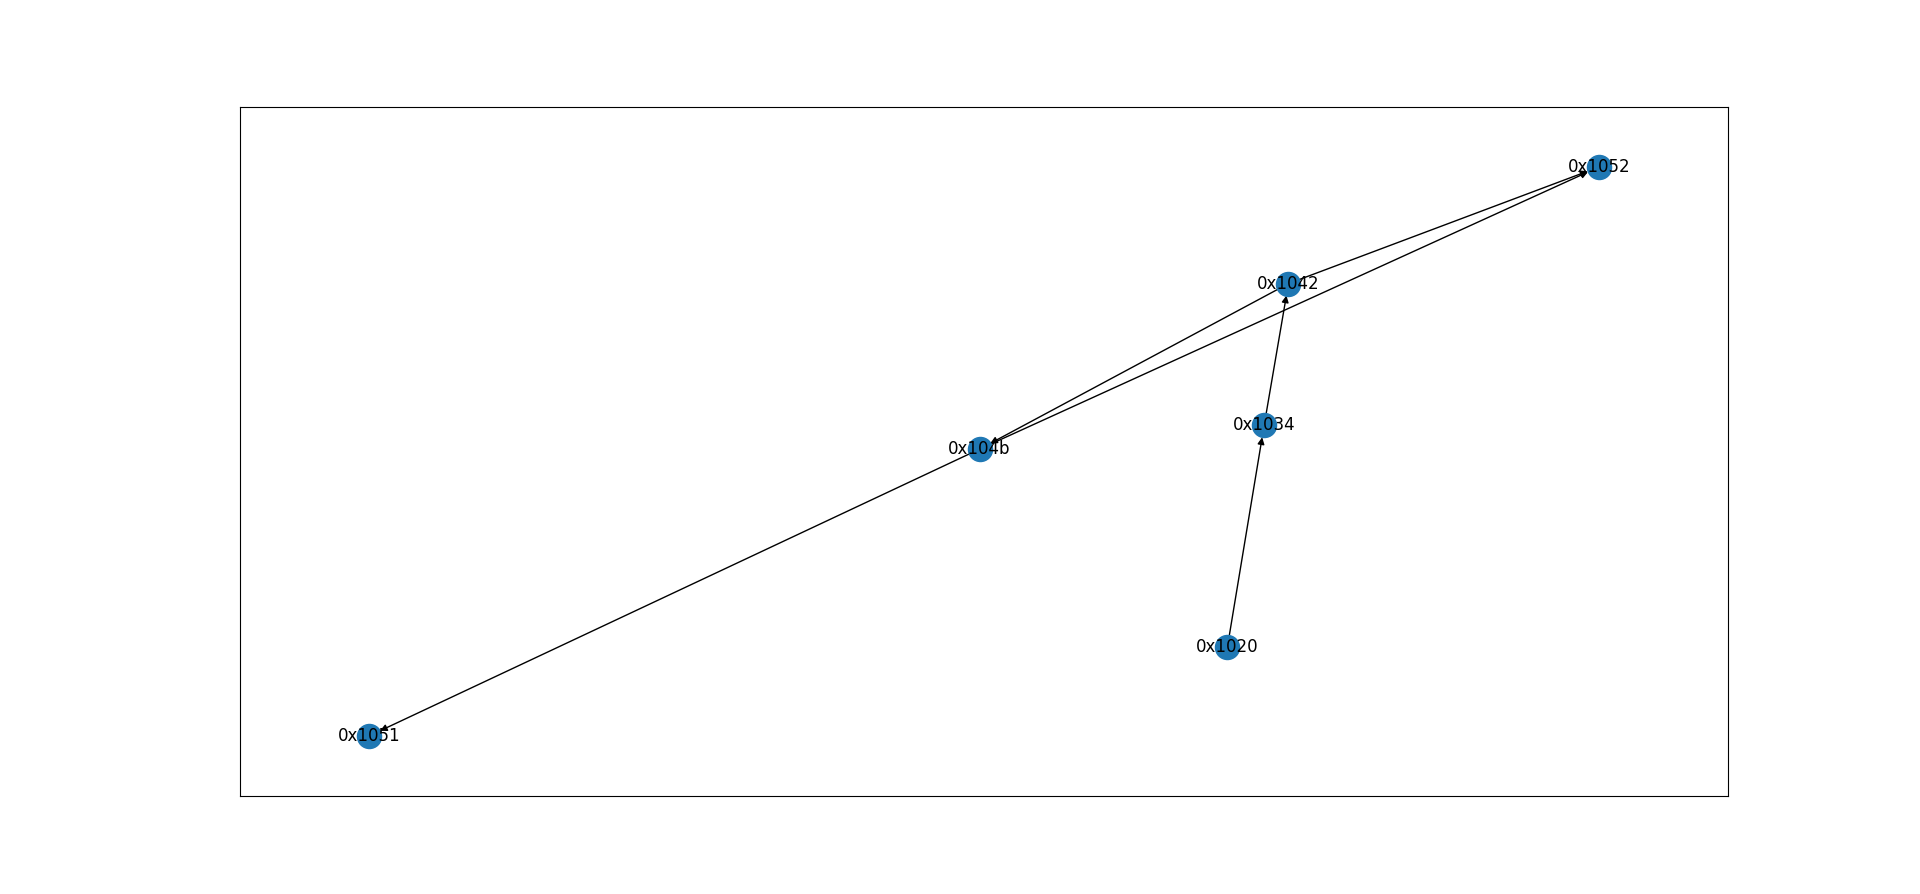
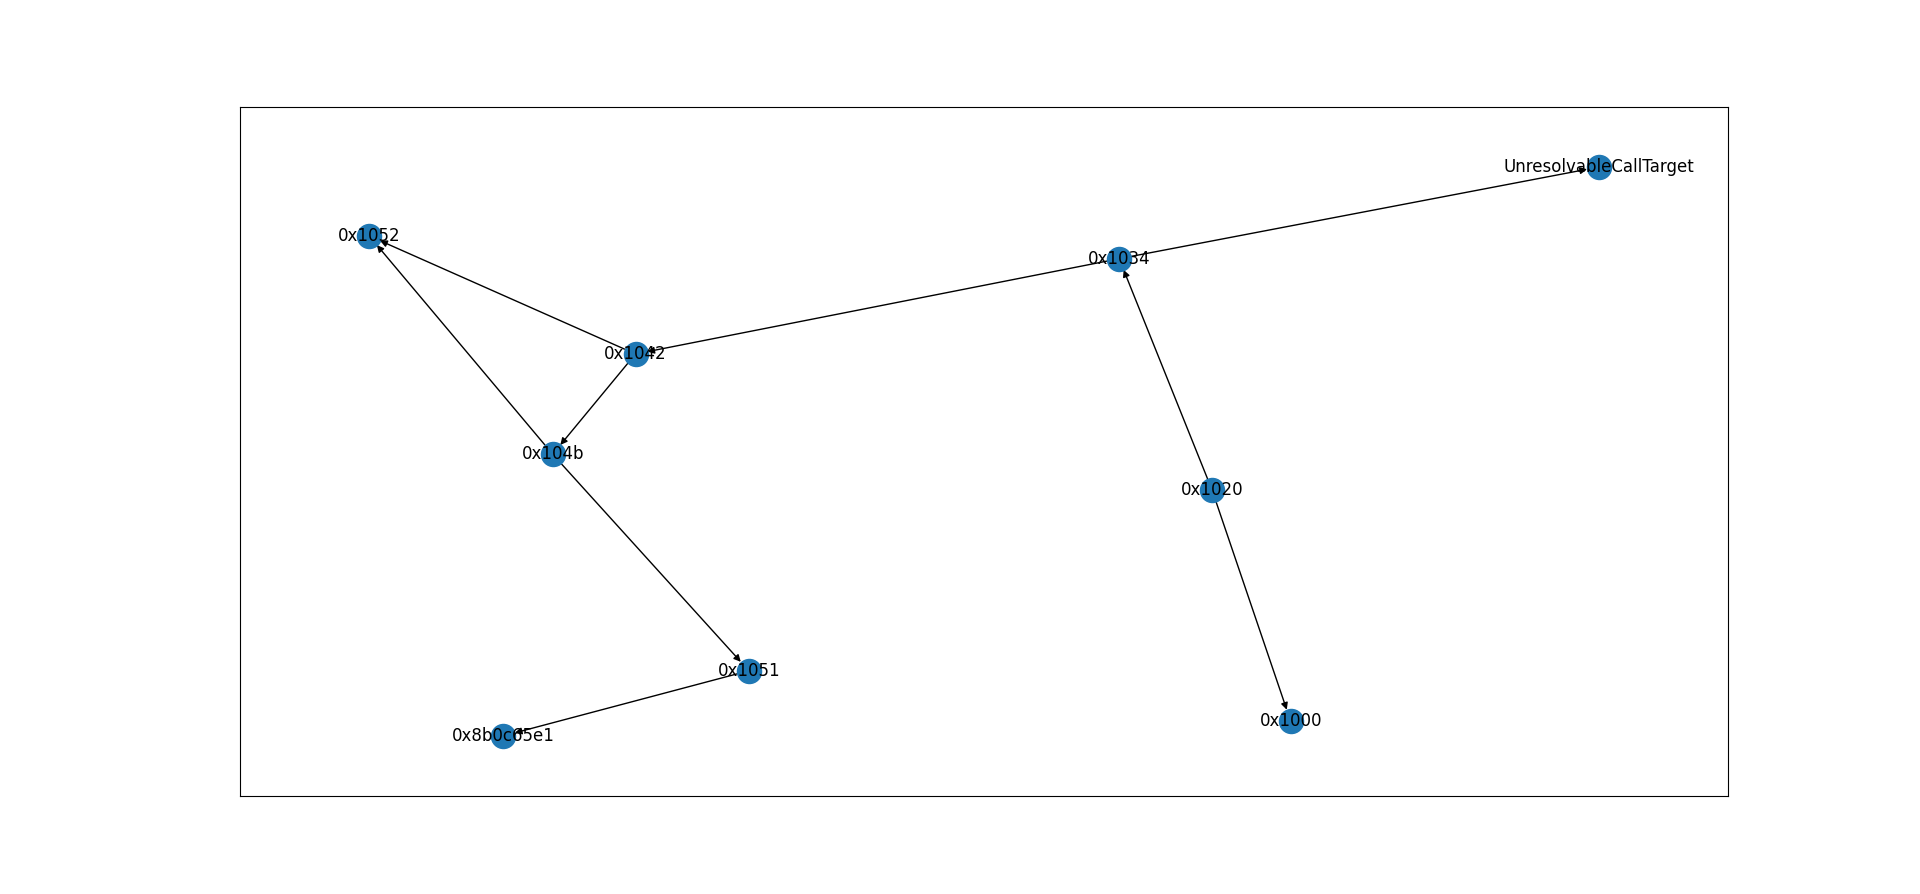
Added restore of purged edges on fullAnalysis and uploaded new version of CJWTS

diff --git a/fullAnalysis.py b/fullAnalysis.py
@@ -92,6 +92,21 @@ def set_original_addresses(graph):
     return set_addr
 
 
+def purge_technique(graph):
+    min_addr = 0x1015
+    max_addr = 0x1069
+    for node in graph.copy():
+        if node == 'UnresolvableCallTarget' or node == 'UnresolvableJumpTarget':
+            graph.remove_node(node)
+        elif int(node,16) < min_addr or int(node,16) > max_addr:
+            graph.remove_node(node)
+    for node in graph.copy().nodes():
+        if graph.nodes[node].get('edges'):
+            for edge in graph.nodes[node].get('edges'):
+                graph.add_edge(node, edge)
+    return graph
+
+
 def purge(graph, max_addr, min_addr):
     for node in graph.copy():
         if node == 'UnresolvableCallTarget' or node == 'UnresolvableJumpTarget':
@@ -184,13 +199,15 @@ def main():
     if len(pin_trace.difference(set_addr_radare_purged)): print(pin_trace.difference(set_addr_radare_purged))
     print('\n')
 
-    int_min = 0x1015
-    int_max = 0x1069
+    angr_purged = purge_technique(angr)
+    ghidra_purged = purge_technique(ghidra)
+    ida_purged = purge_technique(ida)
+    radare_purged = purge_technique(radare)
 
-    angr_purged = purge(angr, int_max, int_min)
-    ghidra_purged = purge(ghidra, int_max, int_min)
-    ida_purged = purge(ida, int_max, int_min)
-    radare_purged = purge(radare, int_max, int_min)
+    pickle.dump(angr_purged, open(pickles_folder + "angr_technique.p", "wb"))
+    pickle.dump(ghidra_purged, open(pickles_folder + "ghidra_technique.p", "wb"))
+    pickle.dump(ida_purged, open(pickles_folder + "ida_technique.p", "wb"))
+    pickle.dump(radare_purged, open(pickles_folder + "radare_technique.p", "wb"))
 
     print(f'{"Attributes comparison on function containing the technique"}')
     print('\n')

diff --git a/Pickles/ConditionalJumpWithConstantCondition/differences.md b/Pickles/ConditionalJumpWithConstantCondition/differences.md
@@ -1,4 +1,140 @@
 # Conditional jump with constant condition
 
-Radare has one additional edge
-IDA counts two function beginnings
+
+Addresses of the function that contains the technique: 0x1020 -> 0x1067
+
+
+## Pin subset check on original addresses
+
+
+Pin trace addresses: 548
+Angr is False - addresses: 1126
+Ghidra is False - addresses: 1120
+Ida is False - addresses: 1130
+Radare is False - addresses: 1020
+
+
+Addresses present on the Pin trace that are missing in Angr: 2
+{'0x104f', '0x1050'}
+Addresses present on the Pin trace that are missing in Ghidra: 12
+{'0x19e7', '0x19e1', '0x1d72', '0x1050', '0x1261', '0x1260', '0x104f', '0x125b', '0x1250', '0x19dc', '0x125a', '0x1255'}
+Addresses present on the Pin trace that are missing in Ida: 2
+{'0x104f', '0x1050'}
+Addresses present on the Pin trace that are missing in Radare: 65
+{'0x11c9', '0x11c0', '0x1a79', '0x11f4', '0x11d4', '0x11ab', '0x125b', '0x11cf', '0x1a73', '0x1222', '0x11f9', '0x1a9d', '0x11ef', '0x1228', '0x1217', '0x11d9', '0x1208', '0x1248', '0x11a5', '0x11e9', '0x11be', '0x11ea', '0x122a', '0x1231', '0x120d', '0x1260', '0x11cd', '0x11cb', '0x125a', '0x11eb', '0x11b0', '0x122c', '0x11ed', '0x11e4', '0x123d', '0x1a7e', '0x11c5', '0x1261', '0x1a74', '0x1a72', '0x1250', '0x11bc', '0x1223', '0x11aa', '0x11b5', '0x119e', '0x1a9c', '0x124d', '0x1236', '0x11e3', '0x123f', '0x121c', '0x11a0', '0x121d', '0x124f', '0x1a9b', '0x11fb', '0x11de', '0x11b7', '0x1a80', '0x1212', '0x1255', '0x123b', '0x119d', '0x11c8'}
+
+
+## Attributes comparison on function containing the technique
+
+
+Angr
+nodes_count 7
+edges_count 6
+func_beg_count 1
+dir_call_count 3
+indir_call_count 1
+cond_jump_count 1
+dir_jump_count 1
+indir_jump_count 0
+ret_count 1
+
+Ghidra
+nodes_count 7
+edges_count 6
+func_beg_count 1
+dir_call_count 3
+indir_call_count 1
+cond_jump_count 1
+dir_jump_count 1
+indir_jump_count 0
+ret_count 1
+
+Ida
+nodes_count 7
+edges_count 6
+func_beg_count 2
+dir_call_count 3
+indir_call_count 1
+cond_jump_count 1
+dir_jump_count 1
+indir_jump_count 0
+ret_count 1
+
+Radare
+nodes_count 7
+edges_count 7
+func_beg_count 1
+dir_call_count 3
+indir_call_count 1
+cond_jump_count 1
+dir_jump_count 1
+indir_jump_count 0
+ret_count 1
+
+## Jaccard similarity check on nodes
+
+
+Angr vs Ghidra 1.0
+Angr vs Radare 0.6666666666666666
+Angr vs Ida 1.0
+
+
+Ghidra vs Radare 0.6666666666666666
+Ghidra vs Angr 1.0
+Ghidra vs Ida 1.0
+
+
+Ida vs Ghidra 1.0
+Ida vs Angr 1.0
+Ida vs Radare 0.6666666666666666
+
+
+Radare vs Ghidra 0.6666666666666666
+Radare vs Angr 0.6666666666666666
+Radare vs Ida 0.6666666666666666
+
+
+## Jaccard similarity check on edges
+
+
+Angr vs Ghidra 1.0
+Angr vs Radare 0.6666666666666666
+Angr vs Ida 1.0
+
+
+Ghidra vs Radare 0.6666666666666666
+Ghidra vs Angr 1.0
+Ghidra vs Ida 1.0
+
+
+Ida vs Ghidra 1.0
+Ida vs Angr 1.0
+Ida vs Radare 0.6666666666666666
+
+
+Radare vs Ghidra 0.6666666666666666
+Radare vs Angr 0.6666666666666666
+Radare vs Ida 0.6666666666666666
+
+
+## Graph edit distance check on differences subgraphs
+
+
+Ghidra vs radare 3.0
+Ghidra vs angr 0.0
+Ghidra vs ida 0.0
+
+
+Radare vs ghidra 3.0
+Radare vs angr 3.0
+Radare vs ida 3.0
+
+
+Angr vs ghidra 0.0
+Angr vs radare 3.0
+Angr vs ida 0.0
+
+
+Ida vs ghidra 0.0
+Ida vs radare 3.0
+Ida vs angr 0.0
